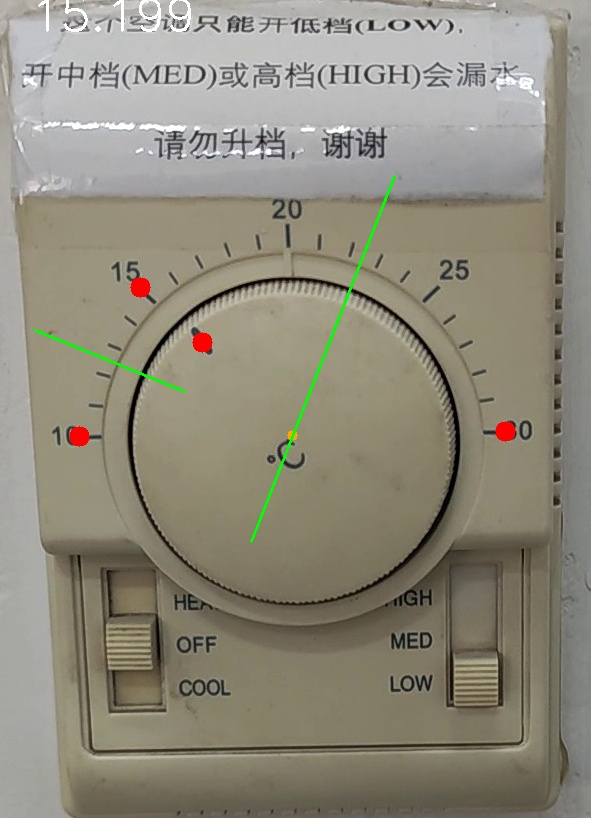
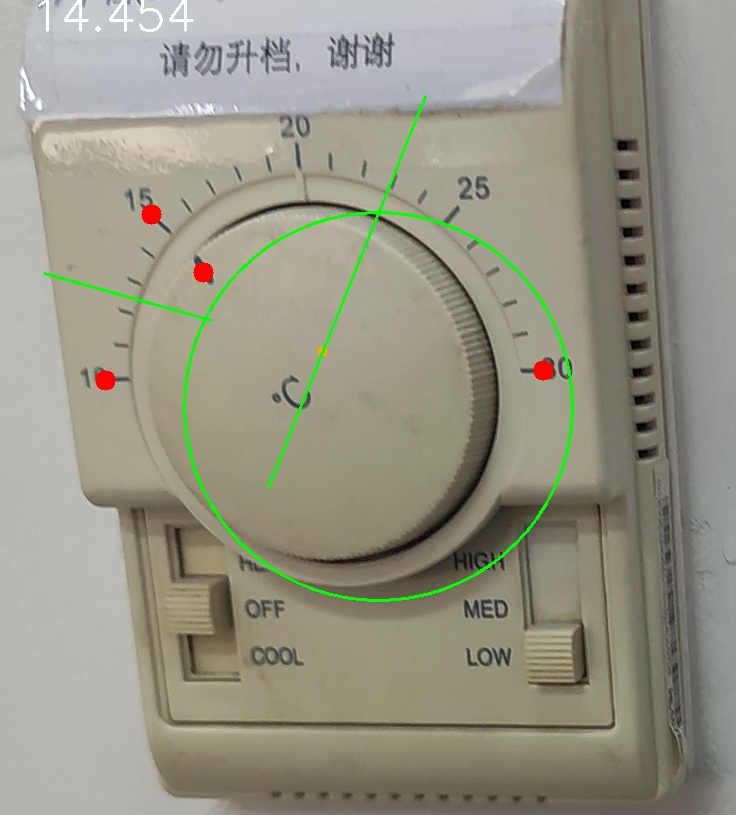
xxxx

diff --git a/src/infer_air.py b/src/infer_air.py
@@ -2,14 +2,57 @@
 Author: wuyao 1955416359@qq.com
 Date: 2024-03-20 15:55:53
 LastEditors: wuyao 1955416359@qq.com
-LastEditTime: 2024-03-25 16:48:27
+LastEditTime: 2024-03-25 20:55:16
 FilePath: /yolo_meter/src/infer_air.py
 Description: 这是默认设置,请设置`customMade`, 打开koroFileHeader查看配置 进行设置: https://github.com/OBKoro1/koro1FileHeader/wiki/%E9%85%8D%E7%BD%AE
 '''
 import cv2
+import numpy as np
 from air_4c import Find_Air
 from air_4c import Find_AirKnob
 
+
+def resize_image(image, height=480, width=640):
+    # 使用 cv2.resize 函数调整图像尺寸
+    resized_image = cv2.resize(image, (width, height), interpolation=cv2.INTER_AREA)
+    return resized_image
+
+def correct_image(image):
+    # 灰度化
+        gray = cv2.cvtColor(image, cv2.COLOR_BGR2GRAY)
+    # 二值化
+        edges = cv2.Canny(gray, 50, 150, apertureSize=3)
+        # 形态学开运算去噪
+        kernel = cv2.getStructuringElement(cv2.MORPH_RECT, (5, 5))
+        closed_edges = cv2.morphologyEx(edges, cv2.MORPH_CLOSE, kernel)        
+        cv2.imwrite('../airknob/binary.jpg', closed_edges)
+        # 轮廓检测
+        contours, _ = cv2.findContours(closed_edges, cv2.RETR_EXTERNAL, cv2.CHAIN_APPROX_SIMPLE)
+        # 筛选最大轮廓
+        max_contour = max(contours, key=cv2.contourArea)
+        
+        # 获取最小外接矩形
+        rect = cv2.minAreaRect(max_contour)
+        points = cv2.boxPoints(rect)
+        points = np.int0(points)  # 转换为整数坐标
+        
+        # 定义矫正后的四顶点
+        dst_points = np.array([
+            [0, image.shape[0]],
+            [0, 0],
+            [image.shape[1], 0],
+            [image.shape[1], image.shape[0]]
+        ], dtype=np.float32)
+        
+        # 确保 points 和 dst_points 都是包含 4 个点的数组
+        if len(points) == 4 and len(dst_points) == 4:
+            # 计算透视变换矩阵
+            M = cv2.getPerspectiveTransform(points, dst_points)
+            # 应用透视变换
+            warped = cv2.warpPerspective(image, M, (image.shape[1], image.shape[0]))
+            return warped
+        else:
+            raise ValueError("The points arrays do not contain exactly 4 points each.")
 
 if __name__ == "__main__":
     video_input_path = '/home/rqh/dataset/kongtiao.mp4'
@@ -29,8 +72,40 @@ if __name__ == "__main__":
     # out = cv2.VideoWriter(video_output_path, fourcc, fps, (frame_width, frame_height))
     
     # test one pic-----------------------------------------------------------------
-    img = cv2.imread('/home/rqh/yolo_meter/airknob/frame_4.jpg')
-    cls, cropped_image = FAir.infer_trt(img)
+    img = cv2.imread('/home/rqh/yolo_meter/airknob/frame_420.jpg')
+
+    cls, cropped_image, xyxy = FAir.infer_trt(img)
+    # gray = cv2.cvtColor(cropped_image, cv2.COLOR_BGR2GRAY)
+    # circles = cv2.HoughCircles(gray, cv2.HOUGH_GRADIENT, dp=1, minDist=20, param1=50, param2=30, minRadius=100, maxRadius=200)
+    # if circles is not None:
+    #     circles = np.uint16(np.around(circles))
+    #     circles = circles[0, :]
+
+    #     # 找到距离图像中心最近的圆
+    #     center = circles[:, 0:2]
+    #     radius = circles[:, 2]
+    #     min_radius = np.min(radius)
+    #     min_center = center[radius == min_radius, :]
+
+    #     # 计算图像中心点
+    #     height, width = gray.shape
+    #     center_image = (width / 2, height / 2)
+
+    #     # 计算最近的圆的中心和半径
+    #     closest_center = min_center[0]
+    #     closest_radius = min_radius
+
+    #     # 计算透视变换矩阵
+    #     src_points = np.float32([closest_center, (width, closest_center), (closest_center, height)])
+    #     dst_points = np.float32([center_image, (center_image[0] + closest_center[0] - center_image[0], center_image[1]), (center_image[0], center_image[1] + closest_center[1] - center_image[1])])
+    #     M = cv2.getPerspectiveTransform(src_points, dst_points)
+
+    #     # 应用透视变换来矫正图像
+    #     warped_image = cv2.warpPerspective(cropped_image, M, (width, height))
+    # # 保存矫正后的图像
+    # # cv2.imwrite('../airknob/infer_air_edges.jpg', edges)
+    # cv2.imwrite('../airknob/infer_air_cropped_image.jpg', cropped_image)
+    # cv2.imwrite('../airknob/infer_air_warped_image.jpg', warped_image)
     value = FAir_knob.infer(cropped_image) 
     font = cv2.FONT_HERSHEY_SIMPLEX
     cv2.putText(cropped_image, str(value), (30, 30), font, 1.5, FAir_knob.colormap.white, 2)

diff --git a/src/air_4c.py b/src/air_4c.py
@@ -2,7 +2,7 @@
 Author: wuyao 1955416359@qq.com
 Date: 2024-03-20 21:42:08
 LastEditors: wuyao 1955416359@qq.com
-LastEditTime: 2024-03-25 17:00:37
+LastEditTime: 2024-03-25 19:46:21
 FilePath: /yolo_meter/src/air_4c.py
 Description: 这是默认设置,请设置`customMade`, 打开koroFileHeader查看配置 进行设置: https://github.com/OBKoro1/koro1FileHeader/wiki/%E9%85%8D%E7%BD%AE
 '''
@@ -51,6 +51,7 @@ class Find_Air(Find_Meters):
     def infer_trt(self,img):
         cropped_images = []
         cls_list = []
+        xyxy_list = []
 
         h, w = img.shape[:2]
         t0 = time.time()
@@ -78,11 +79,12 @@ class Find_Air(Find_Meters):
                 # cropped_image_re = cv2.resize(cropped_image, (w, h))
                 cropped_images.append(cropped_image)
                 cls_list.append(cls)
+                xyxy_list.append([x1, y1, x2, y2])
 
         t1 = time.time()
         if not len(cls_list)==0:
         # print(cls_list)
-            return cls_list[0], cropped_images[0]
+            return cls_list[0], cropped_images[0], xyxy_list[0]
         else:
             # 
             return None, None
